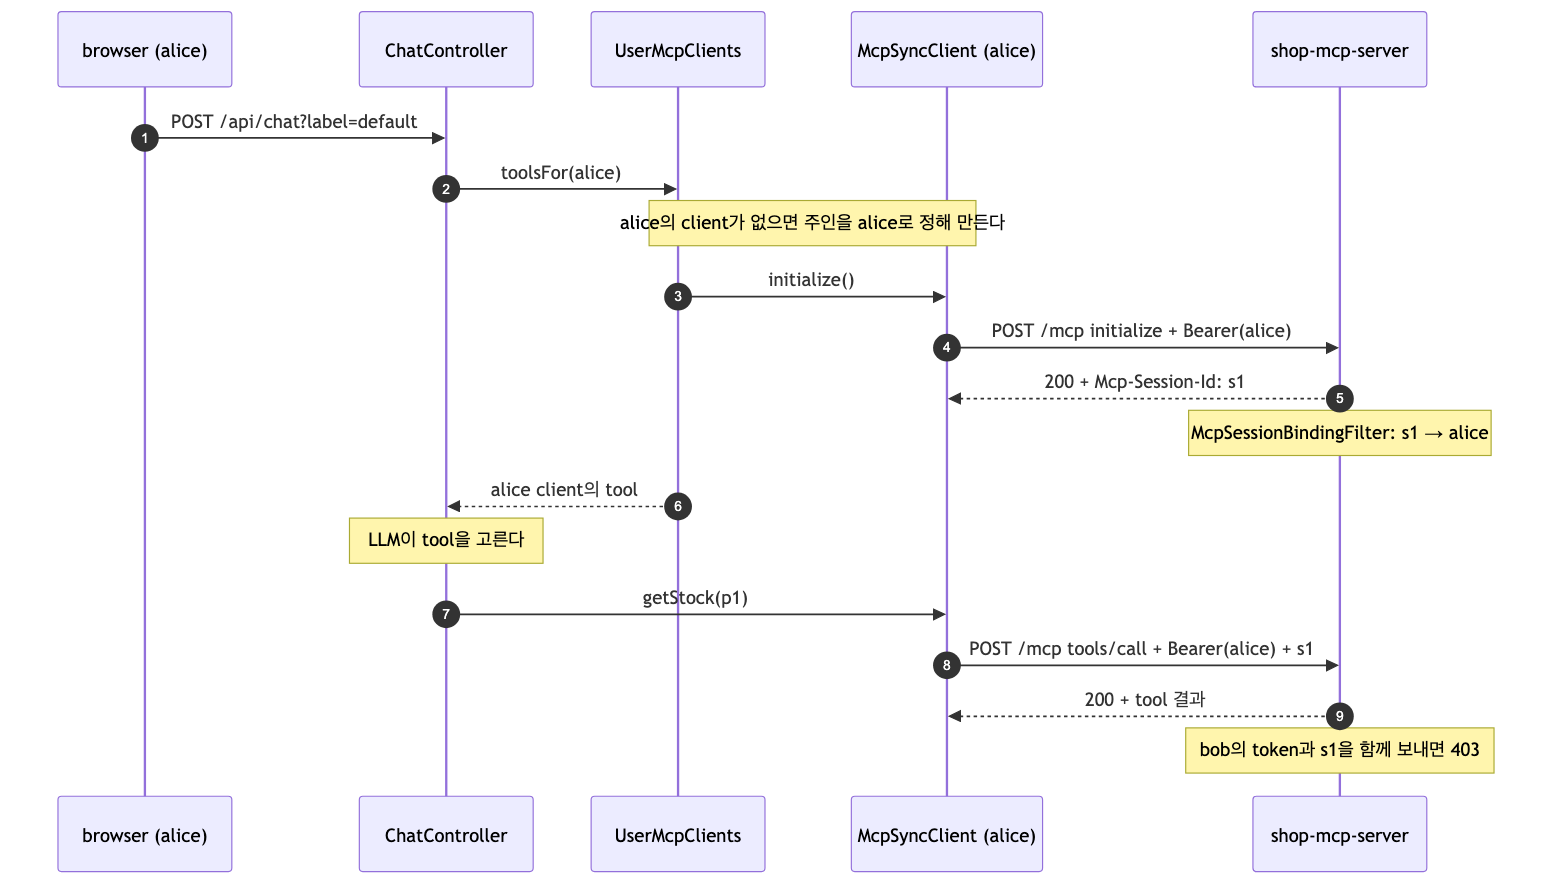
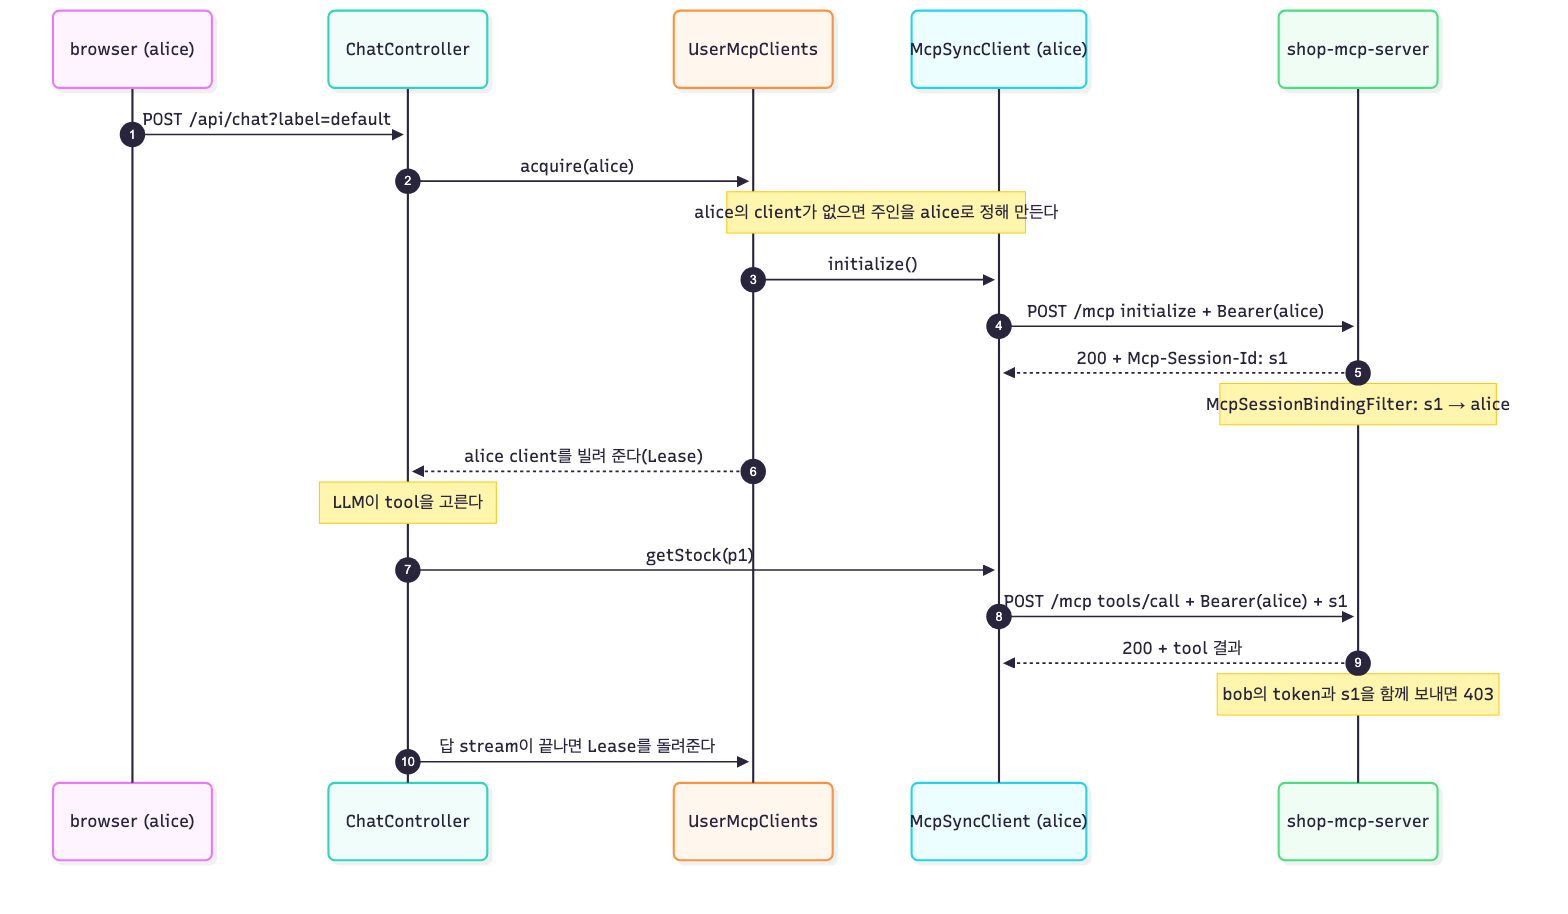
docs: 작업 D의 동작 변화를 안내서와 chat-memory README에 반영한다
- 2·7장: local-client callback은 GET이고 state가 맞는 요청만 결과로 받고,
  HttpClient는 흐름이 끝나면 닫는다
- chat-memory README: client를 빌려 쓰고 끝난 뒤 닫기, 대화 ID의 사용자 이름 escape,
  session 묶음 1시간 만료와 404. 그림 두 개를 다시 그린다
- 준수표 28·35·36번 칸을 맞춘다

diff --git a/practice/mcp-guide/reference-compliance.md b/practice/mcp-guide/reference-compliance.md
@@ -96,15 +96,15 @@ chat-memory의 클래스는 official과 package(`dev.starryeye.memory.*`)만 다
 | 25 | 신원을 확인할 수 없는 client의 re-consent | SHOULD · SHOULD NOT ([OAuth 2.1 §7.3.1](https://datatracker.ietf.org/doc/html/draft-ietf-oauth-v2-1-13#section-7.3.1)) | 예 — `PublicClientScopeValidator`(scope 없음·`openid` 하나 → `invalid_scope`, P8-1) + `PublicClientConsentService`(저장된 consent 무시, P8) | 예 — 같음 | 예 — 같음 | [5장](05-authorization-and-token.md), [8장](08-security.md) |
 | 26 | public client refresh token의 회전 또는 sender-constrained | MUST ([OAuth 2.1 §4.3.1](https://datatracker.ietf.org/doc/html/draft-ietf-oauth-v2-1-13#section-4.3.1)) | 해당 없음 — refresh token을 발급하지 않는다, P7 | 해당 없음 — 같음 | 해당 없음 — 같음 | [4장](04-client-registration.md), [5장](05-authorization-and-token.md) |
 | 27 | 서버에 배포된 MCP client의 SSRF 위험 고려와 대응 | MUST, 대응 네 가지는 SHOULD ([Security Best Practices — SSRF](https://modelcontextprotocol.io/specification/2025-11-25/basic/security_best_practices#server-side-request-forgery-ssrf)) | **아니오** — agent는 issuer binding 확인을 Authorization Server Metadata 요청 앞에 둘 뿐이고(`McpAuthorizationDiscoveryTest#PRM_의_Authorization_Server_가_자격증명의_issuer_가_아니면_metadata_를_요청하지_않는다`), `local-client`는 서버에 배포된 client가 아니라 대상이 아니다. challenge·PRM URL은 scheme·사설 IP 확인 없이 요청하고, redirect를 따라가지 않는 것은 classpath에서 고른 Reactor Netty client의 기본값이라 httpclient5가 들어오면 바뀐다 | **아니오** — 같음 | **아니오** — issuer binding 순서는 같다. PRM URL만 `DefaultUrlValidator(true)`로 HTTPS·loopback HTTP인지 보고, 사설 IP는 막지 않는다 | [8장](08-security.md) |
-| 28 | MCP session을 사용자에 묶기 | SHOULD ([Security Best Practices — Session Hijacking](https://modelcontextprotocol.io/specification/2025-11-25/basic/security_best_practices#session-hijacking)) | **아니오** — agent가 MCP client 하나를 모든 사용자와 같이 쓴다 | 예 — `McpSessionBindingFilter` + `UserMcpClients` | **아니오** — official과 같은 이유, module `sessionBinding()`을 켜지 않는다 | [6장](06-mcp-call-and-validation.md), [8장](08-security.md) |
+| 28 | MCP session을 사용자에 묶기 | SHOULD ([Security Best Practices — Session Hijacking](https://modelcontextprotocol.io/specification/2025-11-25/basic/security_best_practices#session-hijacking)) | **아니오** — agent가 MCP client 하나를 모든 사용자와 같이 쓴다 | 예 — `McpSessionBindingFilter` + `UserMcpClients`. 묶음이 없거나 1시간 쓰지 않은 session ID는 filter가 `404`로 막는다(`McpSessionBindingFilterTest`) | **아니오** — official과 같은 이유, module `sessionBinding()`을 켜지 않는다 | [6장](06-mcp-call-and-validation.md), [8장](08-security.md) |
 | 29 | session ID가 인증을 대신하지 않음, 예측할 수 없는 값 | MUST · MUST NOT ([Security Best Practices — Session Hijacking](https://modelcontextprotocol.io/specification/2025-11-25/basic/security_best_practices#session-hijacking)) | 예 — 모든 요청에서 token 검증, SDK가 `UUID.randomUUID()`로 session ID 생성 | 예 — 같음 | 예 — 같음 | [6장](06-mcp-call-and-validation.md), [8장](08-security.md) |
 | 30 | 로컬 서버는 127.0.0.1에 bind | SHOULD ([Transports — Security Warning](https://modelcontextprotocol.io/specification/2025-11-25/basic/transports#security-warning)) | 예 — `server.address: 127.0.0.1`, S21([listen 캡처](../../docs/superpowers/captures/2026-09-25-listen-addresses.txt)) | 예 — 같음 | 예 — 같음 | [6장](06-mcp-call-and-validation.md) |
 | 31 | 지원하지 않는 `MCP-Protocol-Version`에 `400` | MUST ([Transports — Protocol Version Header](https://modelcontextprotocol.io/specification/2025-11-25/basic/transports#protocol-version-header)) | 예 — `McpProtocolVersionFilter`, C15. `2026-07-28`에도 `400`과 `-32600`으로 답한다 | 예 — 같음 | 예 — `McpProtocolVersionFilterConfig` | [6장](06-mcp-call-and-validation.md), [9장](09-versions.md) |
 | 32 | redirect URI 정확 일치, 틀린 주소로 redirect 금지 | MUST · MUST NOT ([Open Redirection](https://modelcontextprotocol.io/specification/2026-07-28/basic/authorization/security-considerations#open-redirection) · [OAuth 2.1 §4.1.1](https://datatracker.ietf.org/doc/html/draft-ietf-oauth-v2-1-13#section-4.1.1) · [§4.1.2.1](https://datatracker.ietf.org/doc/html/draft-ietf-oauth-v2-1-13#section-4.1.2.1)) | 예 — Spring `OAuth2AuthorizationCodeRequestAuthenticationValidator`, S4·P10-1. login하지 않은 browser는 `/error`도 login을 요구해 `302` → `/login`이고, 틀린 주소로는 가지 않는다 | 예 — 같음 | 예 — 같은 Spring 검증기 | [4장](04-client-registration.md), [8장](08-security.md) |
 | 33 | authorization URL scheme 검증(`http`는 loopback만) | MUST ([Security Best Practices — OAuth Authorization URL Validation](https://modelcontextprotocol.io/specification/2025-11-25/basic/security_best_practices#oauth-authorization-url-validation)) | 예 — agent `McpAuthorizationDiscovery#requireHttpUrl`, `local-client` `Discovery#requireEndpoint`. scheme은 `http`·`https`만, `http`는 loopback host만 받는다 | 예 — 같음 | 예 — 같음 | [3장](03-discovery.md), [8장](08-security.md) |
 | 34 | MCP Server의 JWT 검증 — signature·`iss`·`exp`, RFC 9068의 `typ` | MUST ([MCP — Token Handling](https://modelcontextprotocol.io/specification/2025-11-25/basic/authorization#token-handling) · [OAuth 2.1 §5.2](https://datatracker.ietf.org/doc/html/draft-ietf-oauth-v2-1-13#section-5.2)) · `typ`은 참고 ([RFC 9068 §4](https://www.rfc-editor.org/rfc/rfc9068#section-4) MUST, 그 프로파일의 token일 때) | 예(`typ` 제외) — `issuer-uri`의 key로 signature(`alg: none` 거절)와 `iss`를, `JwtTimestampValidator`로 `exp`를 본다(S3, `McpAuthorizationStandardTest#만료된_토큰은_거부한다`). `typ`은 Spring 기본 `JwtTypeValidator.jwt()`라 없거나 `JWT`일 때만 통과하고 `at+jwt`는 거절하므로, Authorization Server만 RFC 9068 프로파일(17번)로 바꾸면 검증이 깨진다 | 예(`typ` 제외) — 같음 | 예(`typ` 제외) — Boot가 만든 같은 decoder를 module에 넘긴다 | [6장](06-mcp-call-and-validation.md) |
-| 35 | native app의 loopback callback server — listen 주소, 포트 수명, IP 버전 | 표시 없음 (소문자 should, [RFC 8252 §8.3](https://www.rfc-editor.org/rfc/rfc8252#section-8.3)) · SHOULD NOT · RECOMMENDED ([OAuth 2.1 §8.4.2](https://datatracker.ietf.org/doc/html/draft-ietf-oauth-v2-1-13#section-8.4.2)) | **아니오**(RECOMMENDED) — `LoopbackCallbackServer`는 `127.0.0.1`에만 listen하고 IPv6 `[::1]`은 시도하지 않으며, 시도하려면 Authorization Server에도 `http://[::1]:8123/callback`을 등록해야 한다. 포트는 callback을 받은 뒤에도 MCP 호출이 끝날 때까지 열려 있다(`Main`의 try-with-resources) | 해당 없음 — `local-client`가 없다 | 해당 없음 — 같음 | [7장](07-local-client.md) |
-| 36 | 모든 MCP 요청의 `Authorization` header — session 종료 `DELETE` 포함 | MUST ([MCP — Token Requirements](https://modelcontextprotocol.io/specification/2025-11-25/basic/authorization#token-requirements)) | **아니오**(agent, 코드로 판정) — 앱 종료 때 공유 client가 보내는 `DELETE`는 transport context가 비어 `OAuth2TokenAttachingRequestCustomizer#customize`가 header를 붙이지 않는다(`CloseableMcpSyncClients#close` → `McpSyncClient#close` → `HttpClientStreamableHttpTransport#createDelete`). `local-client`는 예 — `McpCalls`가 transport 기본 요청에 넣은 header가 `DELETE`에도 복사된다 | 예(코드로 판정) — client마다 주인을 가진 `OAuth2TokenAttachingRequestCustomizer`가 context와 상관없이 token을 붙이고, `UserMcpClients`가 logout·HTTP session 종료·앱 종료 때 `closeGracefully()`로 닫는다. 테스트 `OAuth2TokenAttachingRequestCustomizerTest#transport_context_없이_나가는_session_종료_DELETE_에도_토큰을_붙인다` | **아니오**(코드로 판정) — module `OAuth2AuthorizationCodeSyncHttpRequestCustomizer#customize`도 context에 `Authentication`과 servlet 요청이 없으면 header 없이 돌아간다. 종료 경로는 official과 같다 | [6장](06-mcp-call-and-validation.md), [7장](07-local-client.md) |
+| 35 | native app의 loopback callback server — listen 주소, 포트 수명, IP 버전 | 표시 없음 (소문자 should, [RFC 8252 §8.3](https://www.rfc-editor.org/rfc/rfc8252#section-8.3)) · SHOULD NOT · RECOMMENDED ([OAuth 2.1 §8.4.2](https://datatracker.ietf.org/doc/html/draft-ietf-oauth-v2-1-13#section-8.4.2)) | **아니오**(RECOMMENDED) — `LoopbackCallbackServer`는 `127.0.0.1`에만 listen하고 IPv6 `[::1]`은 시도하지 않으며, 시도하려면 Authorization Server에도 `http://[::1]:8123/callback`을 등록해야 한다. 포트는 callback을 받은 뒤에도 MCP 호출이 끝날 때까지 열려 있다(`Main`의 try-with-resources). callback은 `GET`이고 `state`가 맞는 요청만 결과로 받고, 나머지는 `400`으로 답하고 계속 기다린다 | 해당 없음 — `local-client`가 없다 | 해당 없음 — 같음 | [7장](07-local-client.md) |
+| 36 | 모든 MCP 요청의 `Authorization` header — session 종료 `DELETE` 포함 | MUST ([MCP — Token Requirements](https://modelcontextprotocol.io/specification/2025-11-25/basic/authorization#token-requirements)) | **아니오**(agent, 코드로 판정) — 앱 종료 때 공유 client가 보내는 `DELETE`는 transport context가 비어 `OAuth2TokenAttachingRequestCustomizer#customize`가 header를 붙이지 않는다(`CloseableMcpSyncClients#close` → `McpSyncClient#close` → `HttpClientStreamableHttpTransport#createDelete`). `local-client`는 예 — `McpCalls`가 transport 기본 요청에 넣은 header가 `DELETE`에도 복사된다 | 예(코드로 판정) — client마다 주인을 가진 `OAuth2TokenAttachingRequestCustomizer`가 context와 상관없이 token을 붙이고, `UserMcpClients`가 logout·HTTP session 종료·앱 종료 때 `closeGracefully()`로 닫는다(빌려 간 채팅이 있으면 끝난 뒤). 테스트 `OAuth2TokenAttachingRequestCustomizerTest#transport_context_없이_나가는_session_종료_DELETE_에도_토큰을_붙인다` | **아니오**(코드로 판정) — module `OAuth2AuthorizationCodeSyncHttpRequestCustomizer#customize`도 context에 `Authentication`과 servlet 요청이 없으면 header 없이 돌아간다. 종료 경로는 official과 같다 | [6장](06-mcp-call-and-validation.md), [7장](07-local-client.md) |
 | 37 | client의 scope 선택 — `401`의 `scope` → PRM의 `scopes_supported` → `scope` 생략 | SHOULD ([Scope Selection Strategy](https://modelcontextprotocol.io/specification/2025-11-25/basic/authorization#scope-selection-strategy)) | **아니오** — `401`과 PRM에 scope가 없어 `scope`를 빼야 하지만, agent는 OIDC login 설정의 `openid profile`을, `local-client`는 `Main.SCOPE`의 `openid profile`을 보낸다. OIDC login에는 `openid`가, public client에는 25번의 `PublicClientScopeValidator`가 요구하는 `openid` 밖의 scope가 필요하다 | **아니오** — agent는 같음 | **아니오** — agent는 같음 | [5장](05-authorization-and-token.md), [7장](07-local-client.md) |
 | 38 | session 오류 응답 본문의 정보 노출 | 참고 — 전송 명세는 본문 형식을 정하지 않음, `id` 없는 JSON-RPC 오류는 MAY ([JSON-RPC 2.0 §5.1](https://www.jsonrpc.org/specification#error_object)) | 아니오(약점) — session ID 없는 `400`(C14, `-32601`)과 모르는 session의 `404`(S13, `-32603`) 본문에 Java `stackTrace`가 담긴다. `-32601`은 JSON-RPC의 Method not found라 SDK의 선택이다 | 아니오(약점) — 같음(같은 SDK) | 아니오(약점) — 같음(같은 SDK) | [부록 API](reference-api.md#post-mcp--bearer-token) |
 | 39 | client와 서버의 token 보관 | MUST ([MCP — Token Theft](https://modelcontextprotocol.io/specification/2025-11-25/basic/authorization#token-theft)) | 예(코드로 판정) — agent는 token을 `InMemoryOAuth2AuthorizedClientService`의 process 메모리에만 두고 로그에 남기지 않는다. `local-client`도 실행하는 동안 메모리에만 두고, MCP Server는 token을 저장하지 않는다. 암호화 저장과 logout 때의 폐기는 없다 | 예 — 같음. logout하면 그 사용자의 MCP client를 닫지만 token은 지우지 않는다 | 예 — 같음(Spring Boot가 만드는 기본 메모리 저장소) | [7장](07-local-client.md), [8장](08-security.md#811-서버에서-도는-agent의-token-보관과-폐기) |

diff --git a/practice/mcp-guide/07-local-client.md b/practice/mcp-guide/07-local-client.md
@@ -112,10 +112,10 @@ agent는 자기 서버의 주소로 이 redirect를 받는다.
 RFC 8252가 정한 loopback redirect다.
 
 ```java
-public static LoopbackCallbackServer start() throws IOException {
+public static LoopbackCallbackServer start(String expectedState) throws IOException {
     // 127.0.0.1에만 bind한다. 포트 0은 운영체제가 빈 포트를 골라 달라는 뜻이다
     return new LoopbackCallbackServer(
-            HttpServer.create(new InetSocketAddress(InetAddress.getByName("127.0.0.1"), 0), 0));
+            HttpServer.create(new InetSocketAddress(InetAddress.getByName("127.0.0.1"), 0), 0), expectedState);
 }
 
 public URI redirectUri() {
@@ -125,8 +125,12 @@ public URI redirectUri() {
 
 private void handle(HttpExchange exchange) throws IOException {
     /* path가 정확히 /callback이 아니면 404 */
-    // 처음 온 callback의 query parameter만 결과로 쓴다
-    boolean first = this.callback.complete(Form.decode(exchange.getRequestURI().getRawQuery()));
+    Map<String, String> params = Form.decode(exchange.getRequestURI().getRawQuery());
+    if (!"GET".equals(exchange.getRequestMethod()) || !this.expectedState.equals(params.get("state"))) {
+        reply(exchange, 400, "이 login의 callback이 아닙니다.");   // 계속 기다린다
+        return;
+    }
+    boolean first = this.callback.complete(params);                 // state가 맞는 첫 callback만 결과가 된다
     /* browser에 "login이 끝났습니다. 이 창을 닫고 terminal로 돌아가세요."를 보여 준다 */
 }
 ```
@@ -137,7 +141,9 @@ private void handle(HttpExchange exchange) throws IOException {
 
 등록된 redirect URI는 `http://127.0.0.1:8123/callback`이지만, Authorization Server가 loopback IP 주소의 포트를 빼고 비교하므로 빈 포트를 써도 된다([4장](04-client-registration.md)).
 
-callback server는 처음 온 callback만 결과로 쓰고, browser가 함께 보내는 `/favicon.ico` 같은 요청에는 `404`로 답한다.
+callback server는 `GET`이고 `state`가 이번 authorization request의 값과 같은 callback만 결과로 쓴다.
+같은 기기의 다른 프로그램이나 web page가 빈 포트를 찾아 가짜 callback을 먼저 보내도, `400`으로 답하고 진짜 callback을 계속 기다린다.
+browser가 함께 보내는 `/favicon.ico` 같은 요청에는 `404`로 답한다.
 `Main`은 callback을 5분 동안 기다리고, 그 안에 login이 끝나지 않으면 멈춘다.
 
 ## 7.5 3단계: authorization request 주소를 만든다 — `AuthorizationRequest`

diff --git a/practice/mcp-guide/02-why-oauth.md b/practice/mcp-guide/02-why-oauth.md
@@ -310,14 +310,14 @@ official은 `auth-server`와 `shop-mcp-server`를 다른 process로 띄운다.
 
 ```java
 static void run(Options options, PrintStream out) {
-    HttpClient http = /* redirect를 따라가지 않는 HttpClient */;
+    HttpClient http = /* redirect를 따라가지 않는 HttpClient. 흐름이 끝나면 닫는다 */;
 
     // (1)~(6) discovery: MCP Server 주소에서 Authorization Server의 endpoint까지
     AuthorizationServer server = new Discovery(http).discover(options.resourceUrl(), options.issuer());
 
     Pkce pkce = Pkce.generate();                                    // code_verifier와 code_challenge
     String state = randomState();
-    try (LoopbackCallbackServer callback = LoopbackCallbackServer.start()) {   // 127.0.0.1의 빈 포트
+    try (LoopbackCallbackServer callback = LoopbackCallbackServer.start(state)) {   // 127.0.0.1의 빈 포트
         // (7)(8) PKCE와 resource를 넣은 authorization request 주소를 browser로 연다
         URI authorization = AuthorizationRequest.uri(server, CLIENT_ID, callback.redirectUri(), SCOPE, state, pkce);
         if (options.openBrowser()) {
